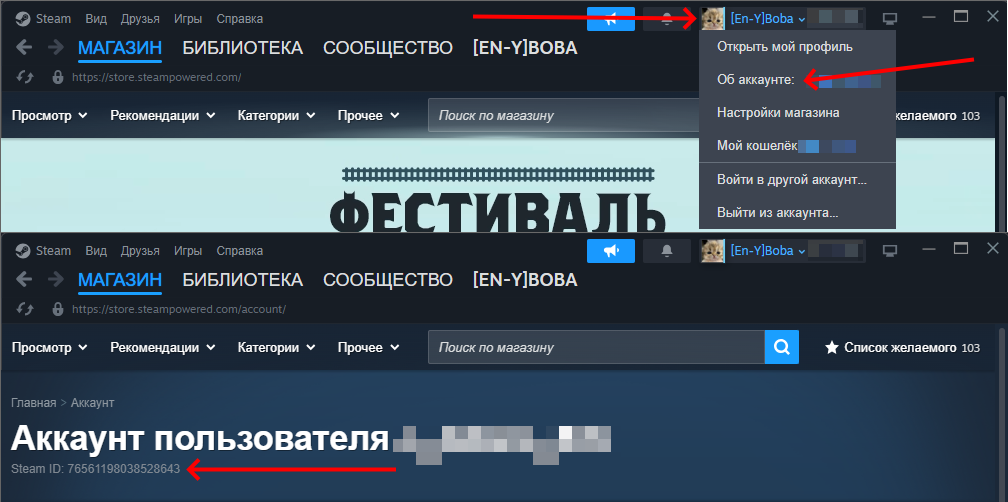
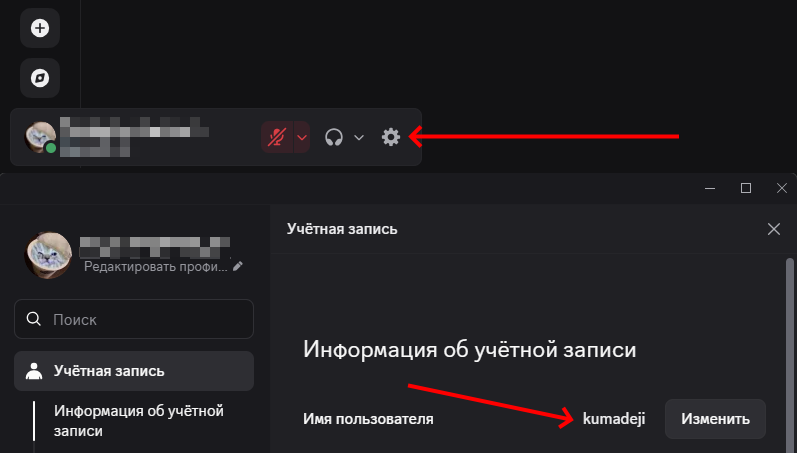
Test

diff --git a/src/index.css b/src/index.css
@@ -623,7 +623,7 @@ tbody tr:hover { background-color: rgba(255, 255, 255, 0.02); }
 }
 .tab-btn.active { color: var(--accent); border-color: var(--accent); background: var(--bg-card); }
 .tab-badge { background: var(--danger); color: #fff; border-radius: 999px; padding: 1px 7px; font-size: 11px; margin-left: 6px; }
-/* Ссылка "История изменений", оформленная как вкладка */
+/* Ссылка "Журнал изменений", оформленная как вкладка */
 
 .admin-filters { display: flex; gap: 12px; flex-wrap: wrap; align-items: center; }
 .admin-filters input, .admin-filters select { width: auto; flex: 1; min-width: 160px; margin: 0; }

diff --git a/src/pages/Admin.jsx b/src/pages/Admin.jsx
@@ -66,7 +66,7 @@ export default function Admin() {
           Новые заявки {stats.pending > 0 && <span className="tab-badge">{stats.pending}</span>}
         </button>
         <button className={`tab-btn ${tab === "all" ? "active" : ""}`} onClick={() => setTab("all")}>Все бойцы</button>
-        <Link to="/admin/changelog" className="changelog-nav-link">История изменений</Link>
+        <Link to="/admin/changelog" className="changelog-nav-link">Журнал изменений</Link>
       </div>
 
 

diff --git a/src/pages/AdminChangeLog.jsx b/src/pages/AdminChangeLog.jsx
@@ -23,7 +23,7 @@ export default function AdminChangeLog() {
   return (
     <main className="container">
       <p><Link to="/admin">← Назад к списку бойцов</Link></p>
-      <h1>История изменений</h1>
+      <h1>Журнал изменений</h1>
       <p className="page-lead">Журнал всех изменений, внесённых бойцами в свои личные дела.</p>
 
       {entries.length === 0 && <p className="hint">Изменений пока не было.</p>}

diff --git a/src/pages/History.jsx b/src/pages/History.jsx
@@ -1,7 +1,7 @@
 export default function Media() {
   return (
     <main className="container">
-      <h1>История клана</h1>
+      <h1>Журнал клана</h1>
       <div className="card"><p className="text-justify">Обязательно бахнем, но потом. А пока что заходите на Discord-сервер за информацией.</p></div>
     </main>
   );

diff --git a/src/components/BackgroundMusic.jsx b/src/components/BackgroundMusic.jsx
@@ -1,6 +1,6 @@
 import { useEffect, useRef, useState } from "react";
 
-const VOLUME = 0.05; // 5%, как и требовалось
+const VOLUME = 0.02; // 5%, как и требовалось
 const STORAGE_KEY = "enemy_music_muted";
 
 export default function BackgroundMusic() {
